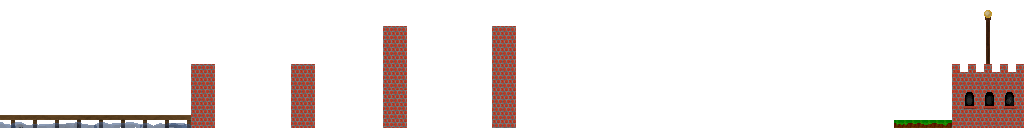
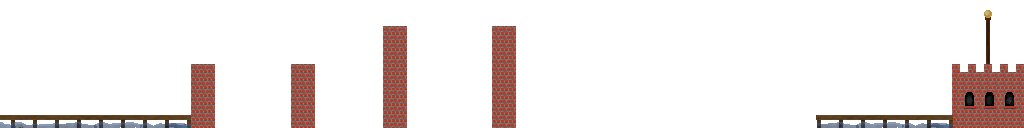
added level 3 to the game  and added all its components to wrok

Changed region(s): [[0.7812, 0.875, 0.9375, 1.0]]

diff --git a/main.py b/main.py
@@ -22,7 +22,7 @@ movingleft = 0              #default for moving left animation
 movingright = 0             #default for moving right anumation
 activeClouds=[]             #defining list for clouds data
 clouds = []                 #defining useable cloud list
-levelStars = [0,0]          #defins the list where the quantity of stars you have for a level is stored
+levelStars = [0,0,0]        #defins the list where the quantity of stars you have for a level is stored
 keybox = True               #determins whether or not to show the keybind turotial
 isLevelChange = True        #activates part to increment what level it is currently
 levelID = 0                 #This is what level is currently in use 
@@ -115,6 +115,7 @@ from imageLoading import *
 player_mask = pygame.mask.from_surface(player_sprite)
 firstLevel_mask = pygame.mask.from_surface(firstLevel)
 secondLevel_mask = pygame.mask.from_surface(secondLevel)
+thirdLevel_mask = pygame.mask.from_surface(thirdLevel)
 sign_mask = pygame.mask.from_surface(sign)
 coin_mask = pygame.mask.from_surface(coin)
 spikeBall_mask = pygame.mask.from_surface(spikeBall)
@@ -174,21 +175,25 @@ platforms = [
 
 levels = [
     [firstLevel,firstLevel_mask],
-    [secondLevel,secondLevel_mask]
+    [secondLevel,secondLevel_mask],
+    [thirdLevel,thirdLevel_mask]
 ]
 
 starPoints = [
     [500,2000,5000],
-    [500,2000,4000]
+    [500,2000,4000],
+    [0,0,0]
 ]
 
 exitGates=[
     [ground_x+4672,395],
-    [ground_x+4672,395]
+    [ground_x+4672,380],
+    [ground_x+4672,380]
 ]
 
 panoramas = [
     panorama,
+    panorama_two,
     panorama_two
 ]
 
@@ -332,6 +337,7 @@ def LevelSelect():
     global levelID , buttonCooldown , isLevelChange
     level_one_text = smallText_font.render("Level: 1",True,colours.white)
     level_two_text = smallText_font.render("level: 2",True,colours.white)
+    level_three_text = smallText_font.render("level: 3",True,colours.white)
     winStar_select = pygame.transform.scale(winStar,(32,32))
     winStar_select_empty = pygame.transform.scale(empty_winStar,(32,32))
     levelRun = True
@@ -375,7 +381,16 @@ def LevelSelect():
             else:screen.blit(winStar_select_empty,((i*32)+283,280))
 
         #code for level three button
-        screen.blit(levelButton_disabled,(428,72))
+        if levelStars[1] == 2:
+            if selectedLevel == 2:
+                screen.blit(levelButton_selected,(428,72))
+            else:screen.blit(levelButton,(428,72))
+        else:screen.blit(levelButton_disabled,(428,72))
+        screen.blit(level_three_text,(418,145))
+        for i in range(3):
+            if levelStars[2] >= i+1:
+                screen.blit(winStar_select,((i*32)+410,165))
+            else:screen.blit(winStar_select_empty,((i*32)+410,165))
 
         screen.blit(backButton,(10,screenHeight-backButton.get_height()-5))
         screen.blit(start_button,(650,screenHeight-backButton.get_height()-5))
@@ -391,6 +406,12 @@ def LevelSelect():
                 if selectedLevel != 1:screen.blit(levelButton_pressed,(304,180))
                 if mouse_Pressed[0]:
                     selectedLevel = 1
+
+        if 428 < mouse_Pos[0] < 428+levelButton.get_width() and 72 < mouse_Pos[1] < 72+levelButton.get_height():
+            if levelStars[1] == 2:
+                if selectedLevel !=2:screen.blit(levelButton_pressed,(428,72))
+                if mouse_Pressed[0]:
+                    selectedLevel = 2
         
         #operating buttons pressing logic
 

diff --git a/imageLoading.py b/imageLoading.py
@@ -281,6 +281,9 @@ firstLevel = pygame.transform.scale(firstLevel,(5120,600))
 secondLevel = pygame.image.load("assets/levels/secondLevel.png")
 secondLevel = pygame.transform.scale(secondLevel,(5120,600))
 
+thirdLevel = pygame.image.load("assets/levels/thirdLevel.png")
+thirdLevel = pygame.transform.scale(thirdLevel,(5120,600))
+
 
 #-----clouds
 cloudone = pygame.image.load("assets/clouds/cloudone.png")
